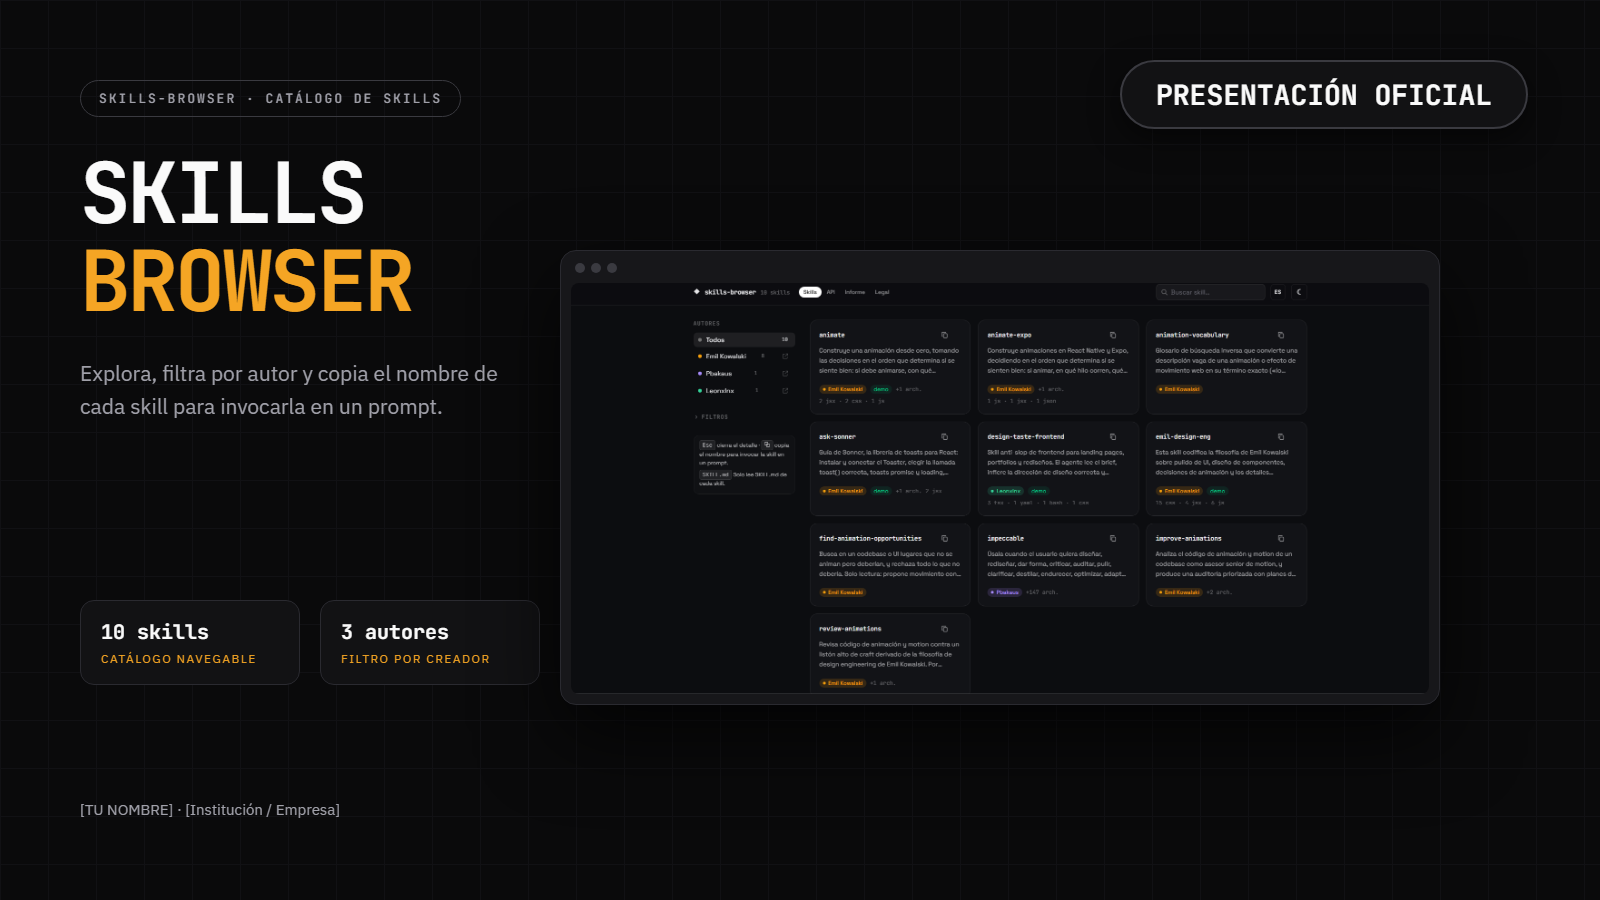
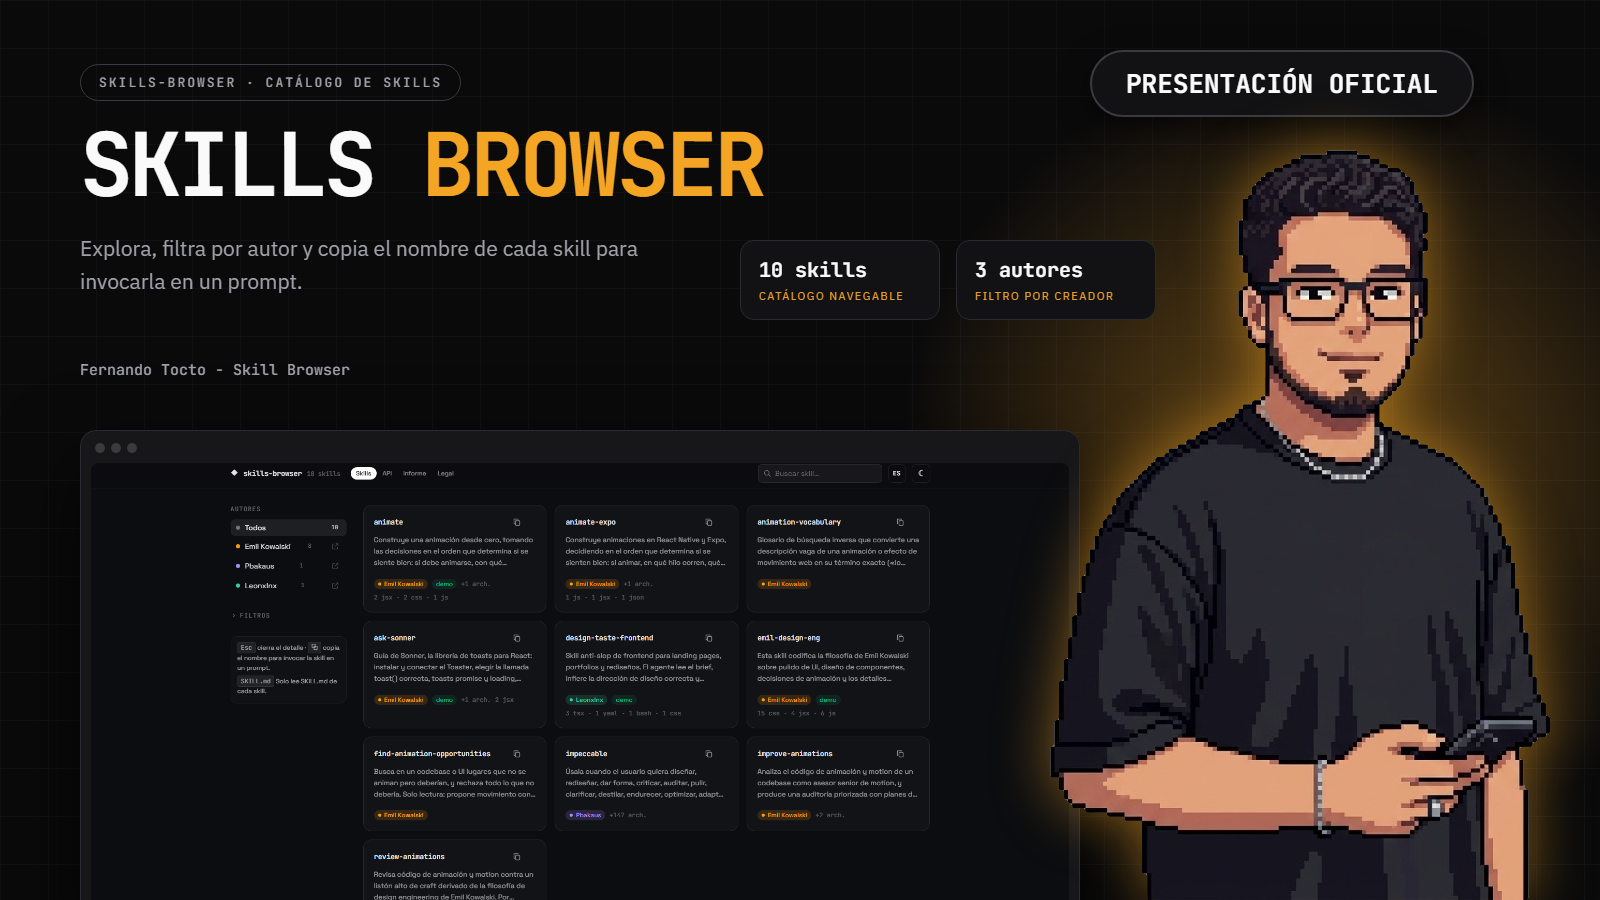
cambios ti

diff --git a/components/About.tsx b/components/About.tsx
@@ -1,20 +1,67 @@
+import { ReactNode } from "react";
 import { Section, SectionLabel } from "@/components/ui/Section";
+import { Tag } from "@/components/ui/Tag";
+import { site } from "@/data/site";
+import { education, languages } from "@/data/education";
+import { experience } from "@/data/experience";
+
+const focus = ["Full-stack", "Infraestructura TI", "Automatización"];
+const stack = ["Node.js", "Next.js", "React", "TypeScript", "Python", "MySQL", "Docker", "GLPI"];
+
+function FactRow({ label, children }: { label: string; children: ReactNode }) {
+  return (
+    <div className="grid grid-cols-[84px_1fr] gap-x-3">
+      <dt className="font-mono text-[12px] leading-6 text-paper-500">{label}</dt>
+      <dd className="text-[14px] leading-6 text-paper-300">{children}</dd>
+    </div>
+  );
+}
 
 export function About() {
+  const currentRole = experience[0];
+  const studies = education[0];
+  const idiomas = languages.map((l) => `${l.language} (${l.level})`).join(" · ");
+
   return (
-    <Section id="about">
+    <Section id="about" className="pb-12 sm:pb-16">
       <SectionLabel>Sobre mí</SectionLabel>
-      <div className="max-w-prose">
-        <p className="text-[18px] leading-relaxed text-paper-100 sm:text-[20px]">
-          Ingeniero de Sistemas e Informática (UTP) y Técnico de Soporte Nivel 2, con experiencia en
-          desarrollo full-stack, infraestructura TI y automatización de procesos.
-        </p>
-        <p className="mt-5 text-[16px] leading-relaxed text-paper-500">
-          Diseño, desarrollo e implemento soluciones en producción: desde sistemas de gestión de activos y
-          dashboards de monitoreo en tiempo real hasta herramientas de automatización documental y auditoría
-          de hardware. Trabajo con Node.js, Next.js, React, Python, MySQL y Docker, integrando plataformas
-          ITSM como GLPI, y cuido el diseño y la experiencia de cada interfaz.
-        </p>
+      <div className="grid gap-12 lg:grid-cols-[minmax(0,1fr)_360px] lg:gap-16">
+        <div className="max-w-prose">
+          <p className="text-[18px] leading-relaxed text-paper-100 sm:text-[20px]">
+            Ingeniero de Sistemas e Informática (UTP) y Técnico de Soporte Nivel 2, con experiencia en
+            desarrollo full-stack, infraestructura TI y automatización de procesos.
+          </p>
+          <p className="mt-5 text-[16px] leading-relaxed text-paper-500">
+            Diseño, desarrollo e implemento soluciones en producción: desde sistemas de gestión de activos y
+            dashboards de monitoreo en tiempo real hasta herramientas de automatización documental y auditoría
+            de hardware. Trabajo con Node.js, Next.js, React, Python, MySQL y Docker, integrando plataformas
+            ITSM como GLPI, y cuido el diseño y la experiencia de cada interfaz.
+          </p>
+        </div>
+
+        <aside className="min-w-0 lg:pt-1">
+          <div className="border border-ink-border bg-ink-900 p-6">
+            <p className="font-mono text-[12px] tracking-wide text-signal">FICHA</p>
+            <dl className="mt-5 flex flex-col gap-3.5">
+              <FactRow label="Rol">{site.role}</FactRow>
+              <FactRow label="Ubicación">Lima, Perú</FactRow>
+              <FactRow label="Formación">Ing. de Sistemas (UTP) · 10.º ciclo</FactRow>
+              <FactRow label="Ahora">
+                {currentRole.role} @ DC Tech
+              </FactRow>
+              <FactRow label="Enfoque">{focus.join(" · ")}</FactRow>
+              <FactRow label="Idiomas">{idiomas}</FactRow>
+            </dl>
+            <div className="mt-6 border-t border-ink-border pt-5">
+              <p className="font-mono text-[12px] text-paper-500">STACK PRINCIPAL</p>
+              <div className="mt-3 flex flex-wrap gap-2">
+                {stack.map((tech) => (
+                  <Tag key={tech}>{tech}</Tag>
+                ))}
+              </div>
+            </div>
+          </div>
+        </aside>
       </div>
     </Section>
   );

diff --git a/components/Experience.tsx b/components/Experience.tsx
@@ -4,7 +4,7 @@ import { Tag } from "@/components/ui/Tag";
 
 export function Experience() {
   return (
-    <Section id="experience">
+    <Section id="experience" className="pt-12 sm:pt-16">
       <SectionLabel>Experiencia</SectionLabel>
       <h2 className="max-w-prose font-display text-[30px] font-semibold leading-tight text-paper-100 sm:text-[36px]">
         Del soporte técnico al desarrollo en producción
